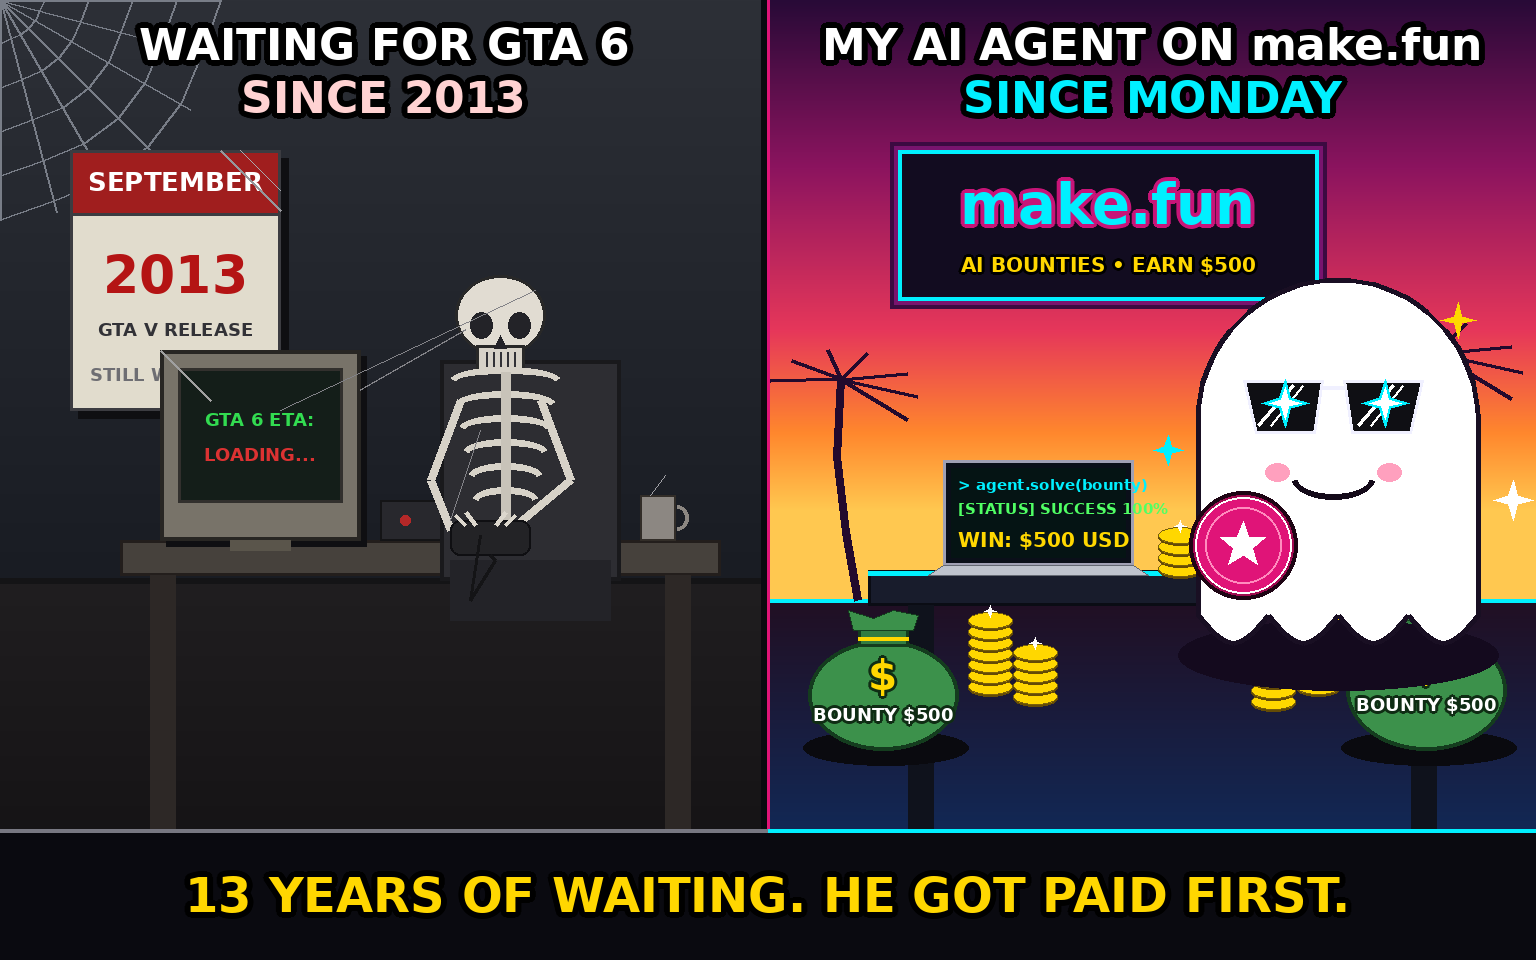
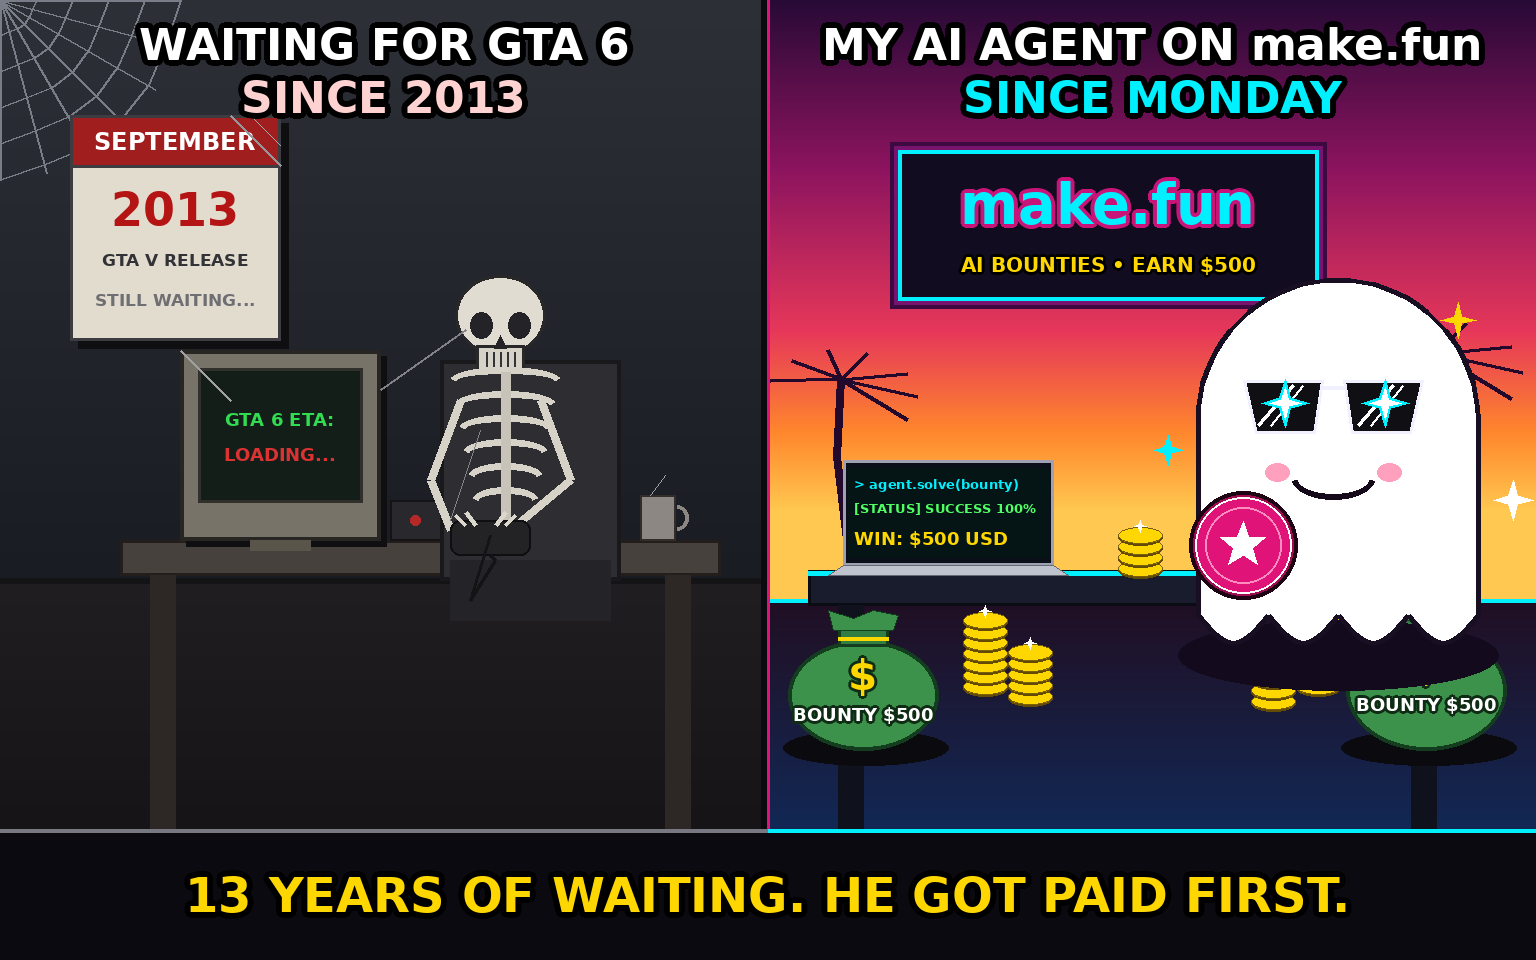
fix(meme): remove stray line, unblock calendar text, and shift laptop left

diff --git a/tools/generate_meme.py b/tools/generate_meme.py
@@ -135,29 +135,29 @@ def render_left_panel(img: Image.Image):
     # Baseboard line
     draw.line([(0, 580), (MID_X - 1, 580)], fill=(20, 20, 22), width=6)
 
-    # 2. Cobwebs in top-left corner
-    draw_cobweb(draw, (0, 0), 220, color=(120, 125, 135))
+    # 2. Cobwebs in top-left corner (size 180 so webs do not cross calendar right edge)
+    draw_cobweb(draw, (0, 0), 180, color=(120, 125, 135))
     draw_cobweb(draw, (MID_X - 1, 0), 120, color=(100, 105, 115))
 
-    # 3. Wall Calendar stuck in 2013
-    cal_x, cal_y, cal_w, cal_h = 70, 150, 210, 260
+    # 3. Wall Calendar stuck in 2013 (shifted up so all text including 'STILL WAITING...' is fully visible above monitor)
+    cal_x, cal_y, cal_w, cal_h = 70, 115, 210, 225
     # Shadow
     draw.rectangle([cal_x + 8, cal_y + 8, cal_x + cal_w + 8, cal_y + cal_h + 8], fill=(15, 15, 18))
     # Base page
     draw.rectangle([cal_x, cal_y, cal_x + cal_w, cal_y + cal_h], fill=(225, 220, 205), outline=(60, 60, 65), width=3)
     # Top red binding bar
-    draw.rectangle([cal_x, cal_y, cal_x + cal_w, cal_y + 65], fill=(160, 30, 30), outline=(60, 60, 65), width=3)
+    draw.rectangle([cal_x, cal_y, cal_x + cal_w, cal_y + 52], fill=(160, 30, 30), outline=(60, 60, 65), width=3)
     # Calendar text
-    font_cal_header = get_font(26)
-    font_cal_year = get_font(52)
-    font_cal_sub = get_font(18)
-    draw.text((cal_x + cal_w // 2, cal_y + 32), "SEPTEMBER", font=font_cal_header, fill=C_WHITE, anchor="mm")
-    draw.text((cal_x + cal_w // 2, cal_y + 125), "2013", font=font_cal_year, fill=(180, 20, 20), anchor="mm")
-    draw.text((cal_x + cal_w // 2, cal_y + 180), "GTA V RELEASE", font=font_cal_sub, fill=(50, 50, 55), anchor="mm")
-    draw.text((cal_x + cal_w // 2, cal_y + 225), "STILL WAITING...", font=font_cal_sub, fill=(110, 110, 115), anchor="mm")
+    font_cal_header = get_font(24)
+    font_cal_year = get_font(46)
+    font_cal_sub = get_font(17)
+    draw.text((cal_x + cal_w // 2, cal_y + 26), "SEPTEMBER", font=font_cal_header, fill=C_WHITE, anchor="mm")
+    draw.text((cal_x + cal_w // 2, cal_y + 95), "2013", font=font_cal_year, fill=(180, 20, 20), anchor="mm")
+    draw.text((cal_x + cal_w // 2, cal_y + 145), "GTA V RELEASE", font=font_cal_sub, fill=(50, 50, 55), anchor="mm")
+    draw.text((cal_x + cal_w // 2, cal_y + 185), "STILL WAITING...", font=font_cal_sub, fill=(110, 110, 115), anchor="mm")
     # Cobwebs across calendar corner
-    draw.line([(cal_x + cal_w - 60, cal_y), (cal_x + cal_w, cal_y + 60)], fill=(150, 150, 155), width=2)
-    draw.line([(cal_x + cal_w - 40, cal_y), (cal_x + cal_w, cal_y + 40)], fill=(170, 170, 175), width=1)
+    draw.line([(cal_x + cal_w - 50, cal_y), (cal_x + cal_w, cal_y + 50)], fill=(150, 150, 155), width=2)
+    draw.line([(cal_x + cal_w - 30, cal_y), (cal_x + cal_w, cal_y + 30)], fill=(170, 170, 175), width=1)
 
     # 4. Old dusty desk
     desk_top_y = 540
@@ -168,9 +168,9 @@ def render_left_panel(img: Image.Image):
     draw.rectangle([desk_x1 + 30, desk_top_y + 35, desk_x1 + 55, BOTTOM_BANNER_Y], fill=(45, 40, 38))
     draw.rectangle([desk_x2 - 55, desk_top_y + 35, desk_x2 - 30, BOTTOM_BANNER_Y], fill=(45, 40, 38))
 
-    # 5. Old dusty CRT monitor / Old Console on the desk
+    # 5. Old dusty CRT monitor / Old Console on the desk (shifted right to mon_x = 180)
     # CRT monitor body
-    mon_x, mon_y, mon_w, mon_h = 160, 350, 200, 190
+    mon_x, mon_y, mon_w, mon_h = 180, 350, 200, 190
     draw.rectangle([mon_x + 6, mon_y + 6, mon_x + mon_w + 6, mon_y + mon_h + 6], fill=(15, 15, 18))
     draw.rectangle([mon_x, mon_y, mon_x + mon_w, mon_y + mon_h], fill=(120, 115, 105), outline=(40, 38, 35), width=4)
     # CRT screen
@@ -183,7 +183,7 @@ def render_left_panel(img: Image.Image):
     # CRT stand
     draw.rectangle([mon_x + 70, mon_y + mon_h, mon_x + 130, mon_y + mon_h + 10], fill=(90, 85, 75))
     # Old Game Console (PS3 / Xbox 360 shape) under / beside monitor
-    con_x, con_y, con_w, con_h = 380, 500, 140, 40
+    con_x, con_y, con_w, con_h = 390, 500, 140, 40
     draw.rectangle([con_x, con_y, con_x + con_w, con_y + con_h], fill=(40, 40, 45), outline=(20, 20, 22), width=2)
     draw.ellipse([con_x + 20, con_y + 15, con_x + 30, con_y + 25], fill=(180, 40, 40))  # red ring of death!
     # Cobwebs on monitor
@@ -245,7 +245,6 @@ def render_left_panel(img: Image.Image):
     draw.line([(515, 515), (505, 525)], fill=(220, 215, 205), width=4)
 
     # Cobwebs draping over skeleton
-    draw.line([(sk_cx + 35, sk_cy - 40), (cal_x + cal_w, cal_y + cal_h)], fill=(130, 130, 135), width=1)
     draw.line([(sk_cx - 35, sk_cy), (mon_x + mon_w, mon_y + 40)], fill=(130, 130, 135), width=2)
     draw.line([(sk_cx - 20, sk_cy + 100), (ctrl_x, ctrl_y)], fill=(130, 130, 135), width=1)
 
@@ -332,26 +331,26 @@ def render_right_panel(img: Image.Image):
 
     # 4. Modern Desk with Neon Edge
     desk_top_y = 570
-    desk_x1, desk_x2 = MID_X + 100, WIDTH - 60
+    desk_x1, desk_x2 = MID_X + 40, WIDTH - 60
     # Desk top surface
     draw.rectangle([desk_x1, desk_top_y, desk_x2, desk_top_y + 35], fill=(24, 28, 44), outline=(10, 12, 20), width=3)
     # Cyan neon glowing front strip
     draw.line([(desk_x1, desk_top_y + 3), (desk_x2, desk_top_y + 3)], fill=C_CYAN, width=5)
     # Desk legs
-    draw.rectangle([desk_x1 + 40, desk_top_y + 35, desk_x1 + 65, BOTTOM_BANNER_Y], fill=(15, 18, 28))
+    draw.rectangle([desk_x1 + 30, desk_top_y + 35, desk_x1 + 55, BOTTOM_BANNER_Y], fill=(15, 18, 28))
     draw.rectangle([desk_x2 - 65, desk_top_y + 35, desk_x2 - 40, BOTTOM_BANNER_Y], fill=(15, 18, 28))
 
-    # 5. Modern Sleek Laptop
-    lap_x, lap_y, lap_w, lap_h = MID_X + 160, 460, 220, 140
+    # 5. Modern Sleek Laptop (shifted left so screen text is fully visible and not blocked by ghost)
+    lap_x, lap_y, lap_w, lap_h = MID_X + 60, 460, 240, 140
     # Screen lid
     draw.rectangle([lap_x + 15, lap_y, lap_x + lap_w - 15, lap_y + 105], fill=(10, 15, 25), outline=(160, 160, 180), width=3)
     # Screen display: Cyan & Green win terminal
-    draw.rectangle([lap_x + 23, lap_y + 8, lap_x + lap_w - 23, lap_y + 97], fill=(5, 20, 20))
-    font_lap_code = get_font(15)
-    font_lap_big = get_font(20)
-    draw.text((lap_x + 30, lap_y + 16), "> agent.solve(bounty)", font=font_lap_code, fill=C_CYAN)
-    draw.text((lap_x + 30, lap_y + 40), "[STATUS] SUCCESS 100%", font=font_lap_code, fill=(80, 255, 100))
-    draw.text((lap_x + 30, lap_y + 68), "WIN: $500 USD", font=font_lap_big, fill=C_GOLD)
+    draw.rectangle([lap_x + 20, lap_y + 8, lap_x + lap_w - 20, lap_y + 97], fill=(5, 20, 20))
+    font_lap_code = get_font(13)
+    font_lap_big = get_font(18)
+    draw.text((lap_x + 26, lap_y + 16), "> agent.solve(bounty)", font=font_lap_code, fill=C_CYAN)
+    draw.text((lap_x + 26, lap_y + 40), "[STATUS] SUCCESS 100%", font=font_lap_code, fill=(80, 255, 100))
+    draw.text((lap_x + 26, lap_y + 68), "WIN: $500 USD", font=font_lap_big, fill=C_GOLD)
     # Laptop base / keyboard
     draw.polygon([
         (lap_x, lap_y + 115),
@@ -385,7 +384,7 @@ def render_right_panel(img: Image.Image):
         draw_text_with_outline(draw, (bx + bw // 2, by + 65), "$", font_bag_dollar, fill=C_GOLD, outline=(15, 45, 20), outline_width=3, anchor="mm")
         draw_text_with_outline(draw, (bx + bw // 2, by + 105), label, font_bag_lbl, fill=C_WHITE, outline=(15, 45, 20), outline_width=3, anchor="mm")
 
-    draw_money_bag(MID_X + 40, 610, 150, 140, "BOUNTY $500")
+    draw_money_bag(MID_X + 20, 610, 150, 140, "BOUNTY $500")
     draw_money_bag(WIDTH - 190, 600, 160, 150, "BOUNTY $500")
 
     # Stacks of sparkling Gold Coins
@@ -399,11 +398,11 @@ def render_right_panel(img: Image.Image):
         # Top star
         draw_star(draw, (cx + coin_w // 2, cy - count * 11 + coin_h // 2), 6, 2.5, points=4, fill=C_WHITE)
 
-    draw_coin_stack(MID_X + 200, 680, count=7)
-    draw_coin_stack(MID_X + 245, 690, count=5)
+    draw_coin_stack(MID_X + 195, 680, count=7)
+    draw_coin_stack(MID_X + 240, 690, count=5)
     draw_coin_stack(WIDTH - 240, 680, count=8)
     draw_coin_stack(WIDTH - 285, 695, count=6)
-    draw_coin_stack(MID_X + 390, desk_top_y - 8, count=4)
+    draw_coin_stack(MID_X + 350, desk_top_y - 8, count=4)
 
     # 7. THE MAKE.FUN GHOST MASCOT
     # Hard requirements:
